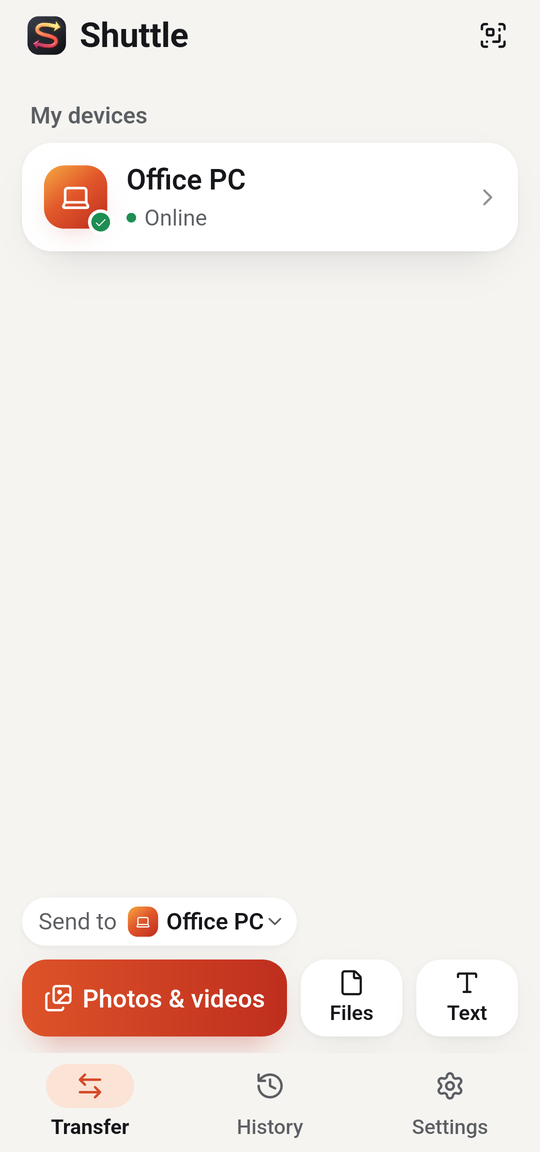
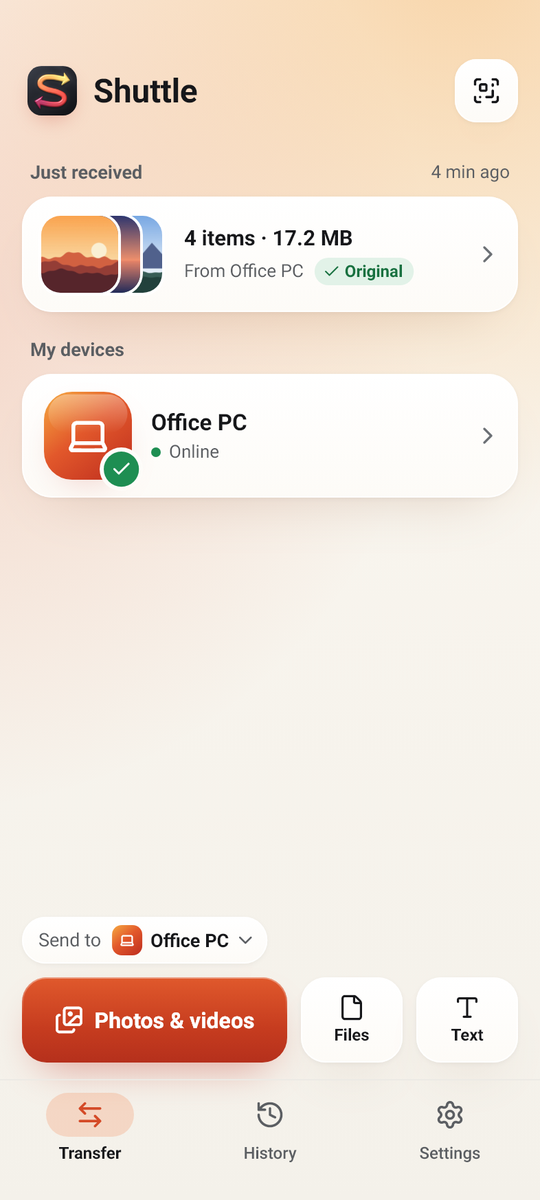
README: pictures of the new look

diff --git a/README.md b/README.md
@@ -18,7 +18,7 @@ Full quality. Encrypted. No cable, no cloud, no account.
 
 </div>
 
-<p align="center"><img src="docs/readme/demo.gif" alt="Share a photo on the phone, it lands on the computer a moment later" width="92%"></p>
+<p align="center"><img src="docs/readme/demo.gif" alt="Send photos from the phone, and they are on the computer a moment later" width="92%"></p>
 
 ## You know the drill
 
@@ -55,9 +55,16 @@ Share → tap your PC → done. The original file, every byte checked.
 
 ## Take a look
 
-| Your phone | Pick where it goes | Your PC | Pair in one scan |
-|:---:|:---:|:---:|:---:|
-| <img src="docs/readme/phone-home.png" width="200"> | <img src="docs/readme/phone-send.png" width="200"> | <img src="docs/readme/pc-home.png" width="260"> | <img src="docs/readme/pc-pair.png" width="260"> |
+<table>
+<tr><th>Your phone</th><th>Pick where it goes</th><th>On its way</th></tr>
+<tr>
+<td align="center"><img src="docs/readme/phone-home.png" width="240"></td>
+<td align="center"><img src="docs/readme/phone-send.png" width="240"></td>
+<td align="center"><img src="docs/readme/phone-sending.png" width="240"></td>
+</tr>
+<tr><th colspan="3">Your PC</th></tr>
+<tr><td colspan="3" align="center"><img src="docs/readme/pc-home.png" width="760"></td></tr>
+</table>
 
 ## Get started in a minute
 

diff --git a/README.zh-CN.md b/README.zh-CN.md
@@ -18,7 +18,7 @@
 
 </div>
 
-<p align="center"><img src="docs/readme/demo-zh.gif" alt="手机上点分享，电脑马上收到" width="92%"></p>
+<p align="center"><img src="docs/readme/demo-zh.gif" alt="手机上点一下，电脑马上收到" width="92%"></p>
 
 ## 这些场景你一定熟
 
@@ -55,9 +55,16 @@
 
 ## 看一眼
 
-| 手机首页 | 选发给谁 | 电脑首页 | 扫一次就配好 |
-|:---:|:---:|:---:|:---:|
-| <img src="docs/readme/phone-home-zh.png" width="200"> | <img src="docs/readme/phone-send-zh.png" width="200"> | <img src="docs/readme/pc-home-zh.png" width="260"> | <img src="docs/readme/pc-pair-zh.png" width="260"> |
+<table>
+<tr><th>手机首页</th><th>选发给谁</th><th>正在发</th></tr>
+<tr>
+<td align="center"><img src="docs/readme/phone-home-zh.png" width="240"></td>
+<td align="center"><img src="docs/readme/phone-send-zh.png" width="240"></td>
+<td align="center"><img src="docs/readme/phone-sending-zh.png" width="240"></td>
+</tr>
+<tr><th colspan="3">电脑首页</th></tr>
+<tr><td colspan="3" align="center"><img src="docs/readme/pc-home-zh.png" width="760"></td></tr>
+</table>
 
 ## 一分钟上手
 
